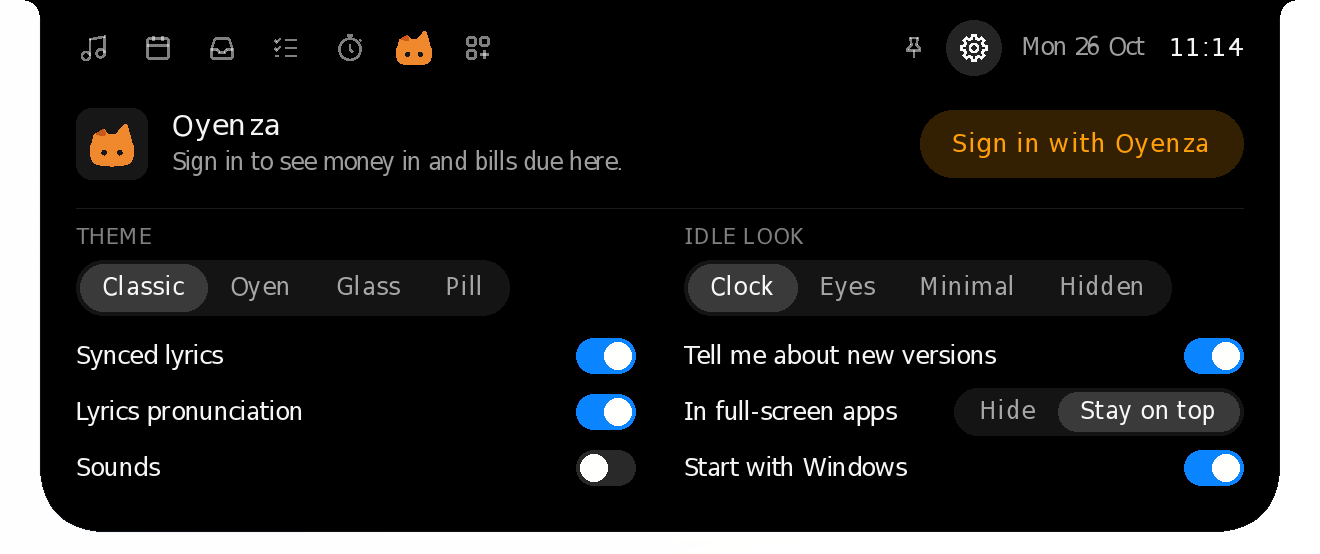
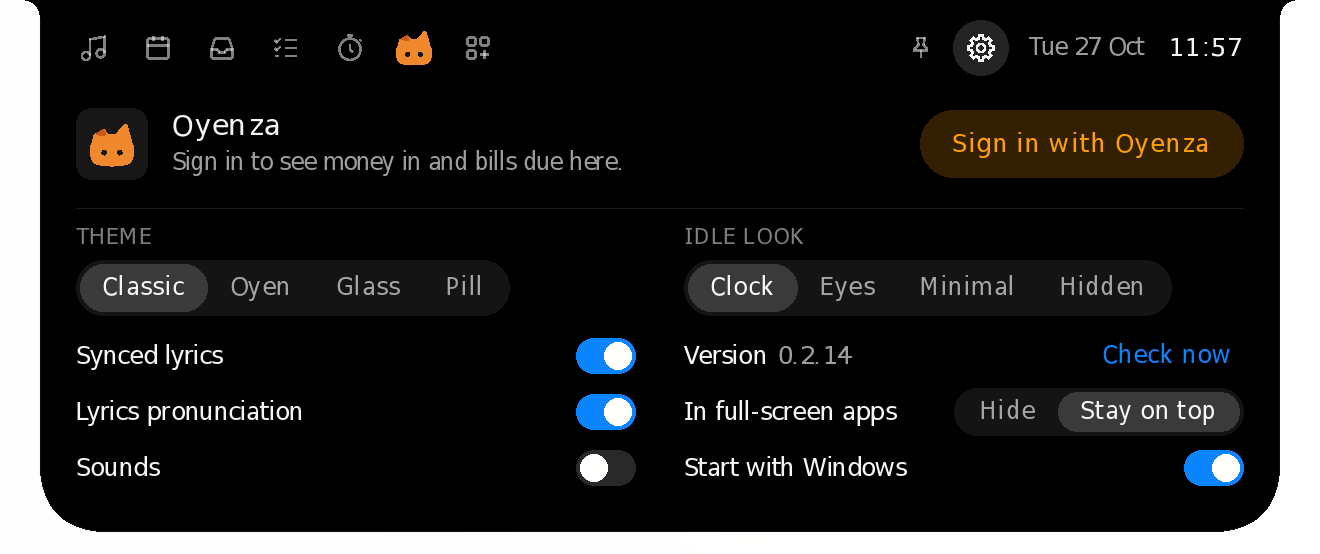
Release 0.2.14
The island stays open under its right-click menu, and new versions are always looked for (#146).

diff --git a/site/index.html b/site/index.html
@@ -634,7 +634,7 @@ dialog.more-sheet::backdrop { background: rgba(0, 0, 0, 0.42); -webkit-backdrop-
     <div class="side-sec">
       <p class="side-group">Overview</p>
       <a class="side-item" href="#top" data-k="home start download hero notch island"><i class="ic" style="--c:#1d1d1f"><svg class="ico"><use href="#i-screen"/></svg></i><span>A living notch</span></a>
-      <a class="side-item" href="#new" data-k="new release 0.2.13 latest changes check for updates every hour check now update available stays lyrics bar zen firefox stocks prices fixed getting prices mac updates install in place ihsg idx saham watchlist chart oyenza.trade today five weeks week ahead schedule month grid dots allow turn on prayer times anywhere world city mac youtube spotify browser now playing pill notch oyen oyenza tab system health add-ons clipboard history gone today your day google calendar gmail meeting join flights bills clipboard add-on touch screen tablet taps tap through notch eyes hide and seek macbook camera update available new version install now next start updater mac installer dmg window steps health oyenza sign in mac headphones full screen power island stays maximized windows sing along romaji lyrics mac prayer script reader teleprompter games power"><i class="ic" style="--c:#bf4800"><svg class="ico"><use href="#i-spark"/></svg></i><span>New in 0.2.13</span></a>
+      <a class="side-item" href="#new" data-k="new release 0.2.14 latest changes right click menu stays open island stays open always looks for new versions version check now check for updates every hour check now update available stays lyrics bar zen firefox stocks prices fixed getting prices mac updates install in place ihsg idx saham watchlist chart oyenza.trade today five weeks week ahead schedule month grid dots allow turn on prayer times anywhere world city mac youtube spotify browser now playing pill notch oyen oyenza tab system health add-ons clipboard history gone today your day google calendar gmail meeting join flights bills clipboard add-on touch screen tablet taps tap through notch eyes hide and seek macbook camera update available new version install now next start updater mac installer dmg window steps health oyenza sign in mac headphones full screen power island stays maximized windows sing along romaji lyrics mac prayer script reader teleprompter games power"><i class="ic" style="--c:#bf4800"><svg class="ico"><use href="#i-spark"/></svg></i><span>New in 0.2.14</span></a>
       <a class="side-item" href="#highlights" data-k="best gallery overview"><i class="ic" style="--c:#ff9f0a"><svg class="ico"><use href="#i-spark"/></svg></i><span>Highlights</span></a>
       <a class="side-item" href="#features" data-k="rest idle music timer volume charging headphones bluetooth money clock eyes prayer countdown"><i class="ic" style="--c:#636366"><svg class="ico"><use href="#i-island"/></svg></i><span>While it rests</span></a>
     </div>
@@ -689,7 +689,7 @@ dialog.more-sheet::backdrop { background: rgba(0, 0, 0, 0.42); -webkit-backdrop-
     </div>
     <a class="side-me" data-release="notes" href="https://github.com/lucacadalora/oyenza-studio/releases/latest">
       <img src="brand/oyen-poni-logo.svg" alt="" width="30" height="30">
-      <span><b>Version <span data-release-copy="version">0.2.13</span></b><small>What's new on GitHub</small></span>
+      <span><b>Version <span data-release-copy="version">0.2.14</span></b><small>What's new on GitHub</small></span>
     </a>
   </div>
 </aside>
@@ -730,9 +730,9 @@ dialog.more-sheet::backdrop { background: rgba(0, 0, 0, 0.42); -webkit-backdrop-
           <div class="hero-copy">
             <h1 class="t-hero-eyebrow">Oyenza Studio</h1>
             <p class="t-hero">A living notch.</p>
-            <a class="t-avail" href="#new">New in 0.2.13: new versions reach you within the hour, and Check for updates… in the menu.</a>
+            <a class="t-avail" href="#new">New in 0.2.14: the island stays open under its right-click menu, and new versions are always looked for.</a>
             <div class="buybox">
-              <div><b>Free for Windows and Mac</b><span class="fine">Open source · Windows <span data-release="size">2.7&nbsp;MB</span> · Mac <span data-release="mac-size">4.6&nbsp;MB</span> · <a class="notes" data-release="notes" href="https://github.com/lucacadalora/oyenza-studio/releases/latest">What's new in <span data-release="version">0.2.13</span></a></span></div>
+              <div><b>Free for Windows and Mac</b><span class="fine">Open source · Windows <span data-release="size">2.7&nbsp;MB</span> · Mac <span data-release="mac-size">4.6&nbsp;MB</span> · <a class="notes" data-release="notes" href="https://github.com/lucacadalora/oyenza-studio/releases/latest">What's new in <span data-release="version">0.2.14</span></a></span></div>
               <a class="btn dl-primary" href="https://github.com/lucacadalora/oyenza-studio/releases/latest/download/Oyenza-Studio-Setup.exe">Download</a>
             </div>
             <a class="link hero-other dl-other" data-release="mac-link" href="https://github.com/lucacadalora/oyenza-studio/releases/latest/download/Oyenza-Studio-Mac.dmg">Download for Mac</a>
@@ -751,8 +751,10 @@ dialog.more-sheet::backdrop { background: rgba(0, 0, 0, 0.42); -webkit-backdrop-
   </section>
 
   <section class="sec band" id="new" aria-labelledby="new-title">
-    <div class="content head rv"><h2 class="t-l" id="new-title">New in 0.2.13.</h2></div>
+    <div class="content head rv"><h2 class="t-l" id="new-title">New in 0.2.14.</h2></div>
     <div class="content news">
+      <a class="news-tile rv" href="#settings"><p class="t-card">The menu keeps it open</p><p class="t-tile">Right-click the open island and it stays open under the menu. It used to close as soon as the menu came up.</p></a>
+      <a class="news-tile rv" href="#settings"><p class="t-card">Always up to date</p><p class="t-tile">Studio always looks for new versions, so the switch for it is gone. Settings shows your version, with Check now beside it.</p></a>
       <a class="news-tile rv" href="#settings"><p class="t-card">Updates within the hour</p><p class="t-tile">Check for updates… in the menu, and new versions reach you within the hour.</p></a>
       <a class="news-tile rv" href="#settings"><p class="t-card">Check now</p><p class="t-tile">Check now in Settings, and Update available stays until you install or hide it.</p></a>
       <a class="news-tile rv" href="#features"><p class="t-card">Lyrics stay on</p><p class="t-tile">Music in Zen or Firefox keeps its bar and lyrics. They used to vanish a few minutes into a song until you paused and played.</p></a>
@@ -1044,7 +1046,7 @@ dialog.more-sheet::backdrop { background: rgba(0, 0, 0, 0.42); -webkit-backdrop-
       <div class="panel rv-zoom" data-scene="par" style="--band:28px">
         <div class="sky-layer"></div>
         <div class="isl">
-          <img class="look-classic" src="assets/shots/classic/page-settings.webp" alt="The Settings page: Sign in with Oyenza at the top, then the theme, the idle look, six switches (Tell me about new versions among them) and a Hide or Stay on top choice for full-screen apps" width="660" height="277" loading="lazy">
+          <img class="look-classic" src="assets/shots/classic/page-settings.webp" alt="The Settings page: Sign in with Oyenza at the top, then the theme, the idle look, four switches, the version with Check now beside it, and a Hide or Stay on top choice for full-screen apps" width="660" height="277" loading="lazy">
           <img class="look-oyen" src="assets/shots/oyen/page-settings.webp" alt="The Settings page in the Oyen theme" width="660" height="277" loading="lazy">
         </div>
       </div>

diff --git a/docs/release-notes/v0.2.14.md b/docs/release-notes/v0.2.14.md
@@ -1,0 +1,13 @@
+**The island stays open under its menu.** Right-clicking the open island used to close it as soon as the menu appeared: the pointer moved onto the menu, and the island took that as you leaving. Now it stays open while the menu is up. When the menu closes, it stays open if the pointer is back on it and closes as usual if it isn't. On Windows and on a Mac.
+
+**New versions are always looked for.** The **Tell me about new versions** switch is gone: Oyenza Studio always looks, a couple of minutes after it starts and then every hour, and only while someone is at the computer. **Update available** still comes up on the island when there's a new version. In Settings, the row says which version you have, with **Check now** beside it. A copy that had the switch off starts looking again.
+
+Everything new in 0.2.13 is here too: Check for updates… in the menu, and lyrics that stay on in Zen and Firefox. See the [0.2.13 notes](https://github.com/lucacadalora/oyenza-studio/releases/tag/v0.2.13).
+
+**Install:** download `Oyenza-Studio-Setup.exe` and run it. It installs just for you (no admin rights) and can start with Windows. Or unzip the portable zip and run `Poni\poni.exe`. Links to `Oyen-Poni-Setup.exe` keep working: every release carries that file too.
+
+**On a Mac:** open `Oyenza-Studio-Mac.dmg` and drag Oyenza Studio into Applications. It isn't signed with an Apple Developer ID yet, so the first time macOS warns you, click **Done**, then open **System Settings → Privacy & Security** and click **Open Anyway**.
+
+**Upgrading:** the island says **Update available** within the hour on 0.2.13, and within half a day on 0.2.6 to 0.2.12; **Install now** in the Update sheet installs it for you. If you had switched off **Tell me about new versions**, your copy won't say so: run the new installer once. Either way it upgrades in place and keeps your settings, data, add-ons and Oyenza sign-in.
+
+The build isn't code-signed yet, so Windows SmartScreen may say "Windows protected your PC". Click **More info → Run anyway**.
